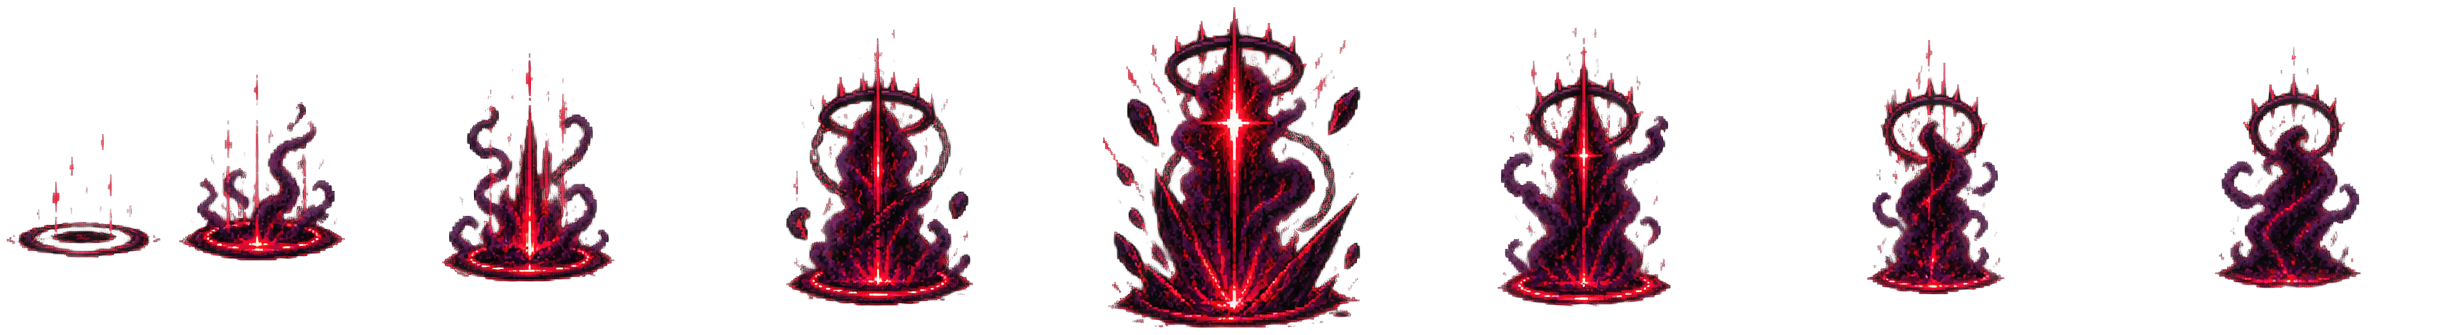
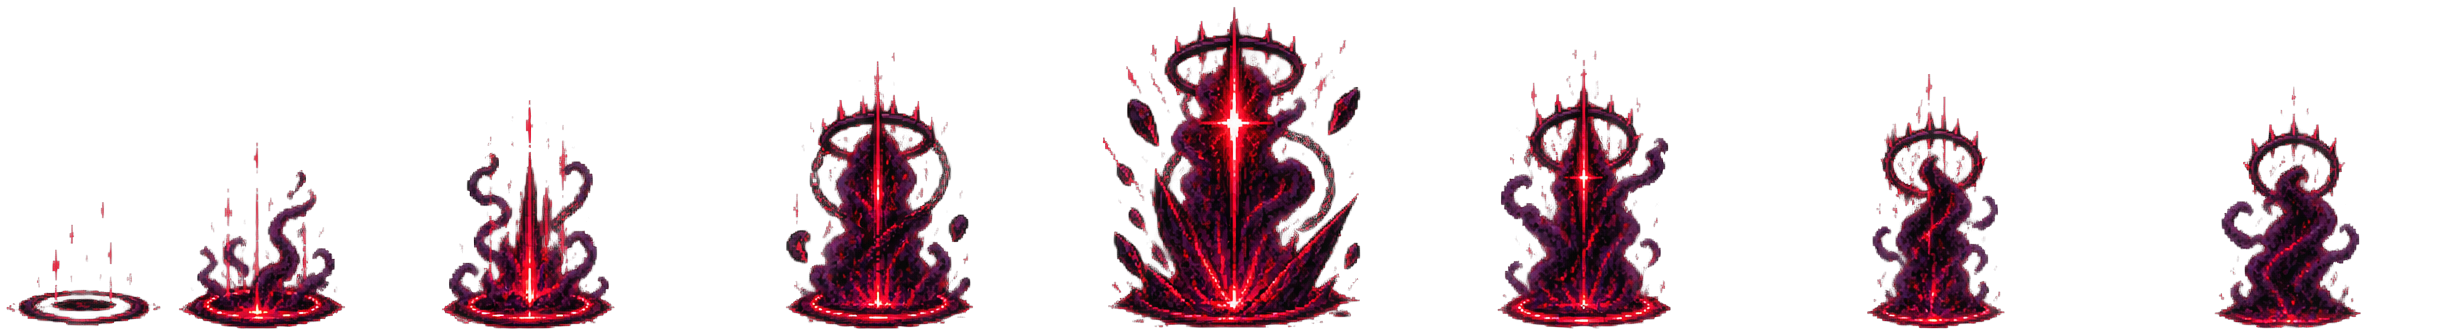
fix : 보스 이펙트 크기·바닥 정렬, 히트박스, 레이어 순서, 지역 배너 위치 수정
- 보스를 2배로 키웠는데 공격 이펙트는 그대로라 왜소해 보이던 문제 —
  VFX_SCALE(2배)을 모든 보스 이펙트 호출부에 반영.
- 바닥에서 자라나는 계열 이펙트(내려찍기·판결선·판결진·그림자 등장·
  페이즈 오오라·가시 폭발)가 프레임마다 가운데 정렬이라 바닥 접점이
  오르내려 "떨어지는" 것처럼 보이던 문제 — 시퀀스별로 바닥 정렬 재추출.
- 보스 히트박스가 커진 그림에 비해 여전히 작다는 지적으로 한 번 더 확대.
- 보스 depth가 플레이어와 같은 값(10)이라 나중에 그려지는 보스가 항상
  앞을 가려 플레이어가 안 보이던 문제 — 보스 depth를 9로 내림.
- 지역 진입 배너가 창 전체 높이 기준 %로 위치를 잡아, 16:9가 아닌 창에서
  Phaser 캔버스 레터박스만큼 실제 캔버스 기준 자리보다 아래로 밀리던
  문제 — 캔버스의 실제 렌더링 높이를 추적하는 vw 단위로 교체.

Claude-Session: https://claude.ai/code/session_01Sm9DXVkb9KpBVxAv69RrkR

diff --git a/src/game/entities/Boss.ts b/src/game/entities/Boss.ts
@@ -50,9 +50,14 @@ import type { BossPattern, BossPatternWeights } from "../types/game";
  * 통합 시점에 `gameBalance.ts`로 옮긴다. (최종 보고 4번 항목)
  */
 const BODY = {
-  /** 그림 배율을 키우면서 충돌 박스도 비례해 넓힌다 — 커 보이는데 안 맞으면 억울하다. (사용자 요청: 2배 확대) */
-  width: 168,
-  height: 248,
+  /**
+   * 그림 배율을 키우면서 충돌 박스도 비례해 넓힌다 — 커 보이는데 안 맞으면 억울하다.
+   * 2배 확대 때 그림 크기만큼 정직하게 2배(84→168, 124→248)로 키웠지만, 그림 자체가
+   * 사각 프레임보다 훨씬 커 보여서 여전히 작다는 지적을 받아 한 번 더 키웠다.
+   * (사용자 요청: 히트박스가 보스 크기보다 너무 작다)
+   */
+  width: 260,
+  height: 340,
   /** 패턴 사이에 플레이어 쪽으로 걸어오는 속도. 압박용이지 추격용이 아니다. */
   moveSpeed: 130,
   /** 이 거리 안에서는 멈춘다. 계속 밀고 들어오면 회피 공간이 사라진다. */
@@ -148,7 +153,10 @@ const HP_BAR = {
 const BOSS_NAME = "「 집 행 자 」";
 const BOSS_TITLE = "이름들을 거두는 자";
 
-const DEPTH = { telegraph: 1, attack: 5, boss: 10, hud: 100 } as const;
+// boss는 플레이어(Player.ts의 TUNING.depth.player = 10)보다 낮아야 한다 — 같은 값이면
+// 나중에 추가되는 쪽(보스)이 동률에서 이겨 앞을 가로막을 때 플레이어가 가려진다.
+// (사용자 요청: 보스가 앞에 서면 캐릭터가 안 보인다)
+const DEPTH = { telegraph: 1, attack: 5, boss: 9, hud: 100 } as const;
 
 /**
  * 보스 그림 배율. 화면에서 약 233px로 보이던 이전 크기가 작다는 지적을 받아
@@ -157,6 +165,9 @@ const DEPTH = { telegraph: 1, attack: 5, boss: 10, hud: 100 } as const;
  * 충돌 박스(BODY)도 같은 비율로 키워야 커 보이는데 안 맞는 일이 없다.
  */
 const BOSS_SPRITE_SCALE = 0.68 * 2;
+
+/** 공격 이펙트 배율. 보스를 2배로 키운 뒤 이펙트만 그대로라 왜소해 보인다는 지적을 받아 같이 키웠다. */
+const VFX_SCALE = 2;
 
 /**
  * 그림의 실제 바닥선(발밑)이 셀 중심보다 아래로 떨어진 거리(셀 로컬 px, 스케일 전).
@@ -370,7 +381,7 @@ export class Boss {
 
     // 등장 연출 — 그림자 덩어리에서 실체화하는 6프레임을 재생한 뒤 idle로 넘어간다.
     // 첫 패턴은 씬(BossScene.runBossIntro)이 인트로 배너 길이만큼 별도로 미룬다.
-    bossShadowEmergeFx(this.scene, sprite.x, this.groundY);
+    bossShadowEmergeFx(this.scene, sprite.x, this.groundY, VFX_SCALE);
     this.setPose(BOSS_FRAME.spawn);
     sprite.once(Phaser.Animations.Events.ANIMATION_COMPLETE, () => {
       if (!this.busy) this.setPose(BOSS_FRAME.idle);
@@ -588,7 +599,7 @@ export class Boss {
         this.punch(sprite);
         this.strikePose(BOSS_FRAME.slashStrike, 200);
         this.spawnHitbox(hitX, sprite.y, reach, SLASH.height, SLASH.activeMs);
-        bossSlashCrescentFx(this.scene, sprite.x + dir * (BODY.width / 2), sprite.y - 8, dir);
+        bossSlashCrescentFx(this.scene, sprite.x + dir * (BODY.width / 2), sprite.y - 8, dir, VFX_SCALE);
         if (isFinisher) {
           this.scene.cameras.main.shake(120, 0.006);
           this.after(SLASH.activeMs + COMBO.recoveryMs, () => this.finishPattern());
@@ -642,7 +653,7 @@ export class Boss {
             true,
           );
           shot.setVelocity(Math.cos(angle) * BARRAGE.speed, Math.sin(angle) * BARRAGE.speed);
-          bossChainLaunchTrail(this.scene, shot, this.facing);
+          bossChainLaunchTrail(this.scene, shot, this.facing, VFX_SCALE);
         });
       }
 
@@ -664,7 +675,7 @@ export class Boss {
     this.setPose(BOSS_FRAME.judgmentTelegraph);
     this.windup();
     // 판결을 여는 순간 — 발밑에 고리가 한 번 떠오른다.
-    bossJudgmentRingFx(this.scene, sprite.x, floorY - 20);
+    bossJudgmentRingFx(this.scene, sprite.x, floorY - 20, VFX_SCALE);
 
     for (let i = 0; i < ERUPTION.count; i += 1) {
       const at = Phaser.Math.Clamp(
@@ -673,7 +684,7 @@ export class Boss {
         this.arena.bounds.width - 40,
       );
       this.after(i * ERUPTION.intervalMs, () => {
-        bossJudgmentLineFx(this.scene, at, floorY);
+        bossJudgmentLineFx(this.scene, at, floorY, VFX_SCALE);
       });
       this.after(i * ERUPTION.intervalMs + ERUPTION.telegraphMs, () => {
         this.spawnHitbox(
@@ -711,13 +722,13 @@ export class Boss {
     const x = sprite.x + dir * (BODY.width / 2 + CHAIN_PULL.reach / 2);
     const y = sprite.y;
     this.showTelegraph(x, y, CHAIN_PULL.reach, CHAIN_PULL.height, CHAIN_PULL.telegraphMs);
-    bossChainOrbitFx(this.scene, sprite.x + dir * (BODY.width / 2), sprite.y, CHAIN_PULL.telegraphMs);
+    bossChainOrbitFx(this.scene, sprite.x + dir * (BODY.width / 2), sprite.y, CHAIN_PULL.telegraphMs, VFX_SCALE);
     this.setPose(BOSS_FRAME.chainPullTelegraph);
     this.windup();
 
     this.after(CHAIN_PULL.telegraphMs, () => {
       this.strikePose(BOSS_FRAME.chainPullStrike, CHAIN_PULL.activeMs + CHAIN_PULL.recoveryMs);
-      bossChainPullImpactFx(this.scene, x, y);
+      bossChainPullImpactFx(this.scene, x, y, VFX_SCALE);
       const box = this.spawnHitbox(x, y, CHAIN_PULL.reach, CHAIN_PULL.height, CHAIN_PULL.activeMs, true);
       // 씬(BossScene)이 이 값으로 플레이어를 당긴다 — 방향은 "이 지점을 향해",
       // 거리는 고정값(clamp는 씬이 arena 경계로 건다).
@@ -751,7 +762,7 @@ export class Boss {
       this.strikePose(BOSS_FRAME.slashStrike, SLASH.activeMs + SLASH.recoveryMs);
       this.spawnHitbox(x, y, SLASH.reach, SLASH.height, SLASH.activeMs);
       // 판정은 투명하다 — 그림은 초승달 궤적 스프라이트가 담당한다.
-      bossSlashCrescentFx(this.scene, sprite.x + this.facing * (BODY.width / 2), y - 8, this.facing);
+      bossSlashCrescentFx(this.scene, sprite.x + this.facing * (BODY.width / 2), y - 8, this.facing, VFX_SCALE);
       this.after(SLASH.activeMs + SLASH.recoveryMs, () => this.finishPattern());
     });
   }
@@ -779,7 +790,7 @@ export class Boss {
     this.after(DASH.telegraphMs, () => {
       this.strikePose(BOSS_FRAME.dashStrike, DASH.durationMs + DASH.recoveryMs);
       sprite.setVelocityX(dir * DASH.speed);
-      bossDashSlashFx(this.scene, sprite.x + dir * (BODY.width / 2), sprite.y - 8, dir);
+      bossDashSlashFx(this.scene, sprite.x + dir * (BODY.width / 2), sprite.y - 8, dir, VFX_SCALE);
       // 출발의 무게 — 발밑 흙이 터지고 화면이 잠깐 흔들린다.
       groundDust(this.scene, sprite.x, this.arena.bounds.floorY, "land");
       this.scene.cameras.main.shake(90, 0.004);
@@ -855,7 +866,7 @@ export class Boss {
       (dy / length) * PROJECTILE.speed,
     );
     // 판정은 투명하다 — 사슬 갈고리 스프라이트가 그림을 맡는다.
-    bossChainLaunchTrail(this.scene, shot, this.facing);
+    bossChainLaunchTrail(this.scene, shot, this.facing, VFX_SCALE);
   }
 
   /** 점프 내려찍기. 착지 지점을 띄운 뒤 떨어진다. 지연 장판은 만들지 않는다. (MVP_PLAN §8) */
@@ -921,7 +932,7 @@ export class Boss {
             SLAM.activeMs,
           );
           // 판정은 투명하다 — 착지의 그림은 기둥 폭발 스프라이트 + 흙먼지가 맡는다.
-          bossSlamEruptionFx(this.scene, targetX, this.arena.bounds.floorY - 6);
+          bossSlamEruptionFx(this.scene, targetX, this.arena.bounds.floorY - 6, VFX_SCALE);
           groundDust(this.scene, targetX, this.arena.bounds.floorY, "land");
           hitStop(this.scene, 70);
           this.after(SLAM.activeMs + SLAM.recoveryMs, () => this.finishPattern());
@@ -985,7 +996,7 @@ export class Boss {
     this.scene.cameras.main.flash(160, 120, 10, 30);
     pulseGlitchFx(this.scene, next === 2 ? 0.65 : 0.9, 550);
     bossShockwave(this.scene, sprite.x, this.arena.bounds.floorY - 6, 300);
-    bossPhaseAuraFx(this.scene, sprite.x, this.arena.bounds.floorY - 6);
+    bossPhaseAuraFx(this.scene, sprite.x, this.arena.bounds.floorY - 6, VFX_SCALE);
     groundDust(this.scene, sprite.x, this.arena.bounds.floorY, "land");
 
     // 분노가 몸에 남는다 — 페이즈가 오를수록 붉은 광채가 짙어진다. (WebGL 전용)
@@ -1038,7 +1049,7 @@ export class Boss {
       deathBurst(this.scene, sprite.x, sprite.y, SILHOUETTE.boss);
       ashRise(this.scene, sprite.x, sprite.y - 30, SILHOUETTE.boss);
       ashRise(this.scene, sprite.x, sprite.y + 30, 0xff2a3a);
-      bossGroundSpikeFx(this.scene, sprite.x, this.arena.bounds.floorY - 6);
+      bossGroundSpikeFx(this.scene, sprite.x, this.arena.bounds.floorY - 6, VFX_SCALE);
 
       this.scene.tweens.add({
         targets: sprite,

diff --git a/src/components/ui/ZoneBanner.tsx b/src/components/ui/ZoneBanner.tsx
@@ -25,7 +25,16 @@ const fadeInOut = keyframes`
 
 const Wrap = styled.div`
   position: absolute;
-  top: 8%;
+  /*
+   * "화면 높이의 8%"가 아니라 "캔버스 높이의 8%"다. Phaser는 Scale.FIT + 가로만
+   * 중앙 정렬(createGame.ts)이라 창 비율이 16:9보다 세로로 길면 남는 여백이 전부
+   * 캔버스 아래쪽에 생긴다 — 이 컨테이너(HUDOverlay)는 창 전체 높이를 차지하므로
+   * top: 8%는 그 여백까지 포함해 계산돼 캔버스 기준 배너 자리보다 아래로 밀린다.
+   * 캔버스는 항상 가로를 꽉 채우므로(가로 여백 없음) 캔버스 높이는 100vw*9/16 =
+   * 56.25vw로 정확히 구해진다 — 그 8%인 4.5vw를 쓰면 창 비율과 무관하게 캔버스
+   * 기준으로 정확히 맞는다. (사용자 지적: 지역 배너 위치가 안 맞음)
+   */
+  top: 4.5vw;
   left: 50%;
   transform: translateX(-50%);
   z-index: ${theme.z.hud + 5};

diff --git a/src/game/systems/CombatVfx.ts b/src/game/systems/CombatVfx.ts
@@ -1759,10 +1759,11 @@ export const bossChainLaunchTrail = (
   scene: Phaser.Scene,
   projectile: Phaser.GameObjects.Image,
   facing: 1 | -1,
+  scale = 1,
 ): void => {
   const fx = scene.add.sprite(projectile.x, projectile.y, TEXTURE.vfxChainLaunch);
   fx.setDepth(VFX.depth);
-  fx.setScale(facing, 1);
+  fx.setScale(facing * scale, scale);
   fx.setBlendMode(Phaser.BlendModes.ADD);
   fx.play("bossChainLaunchLoop");
 
